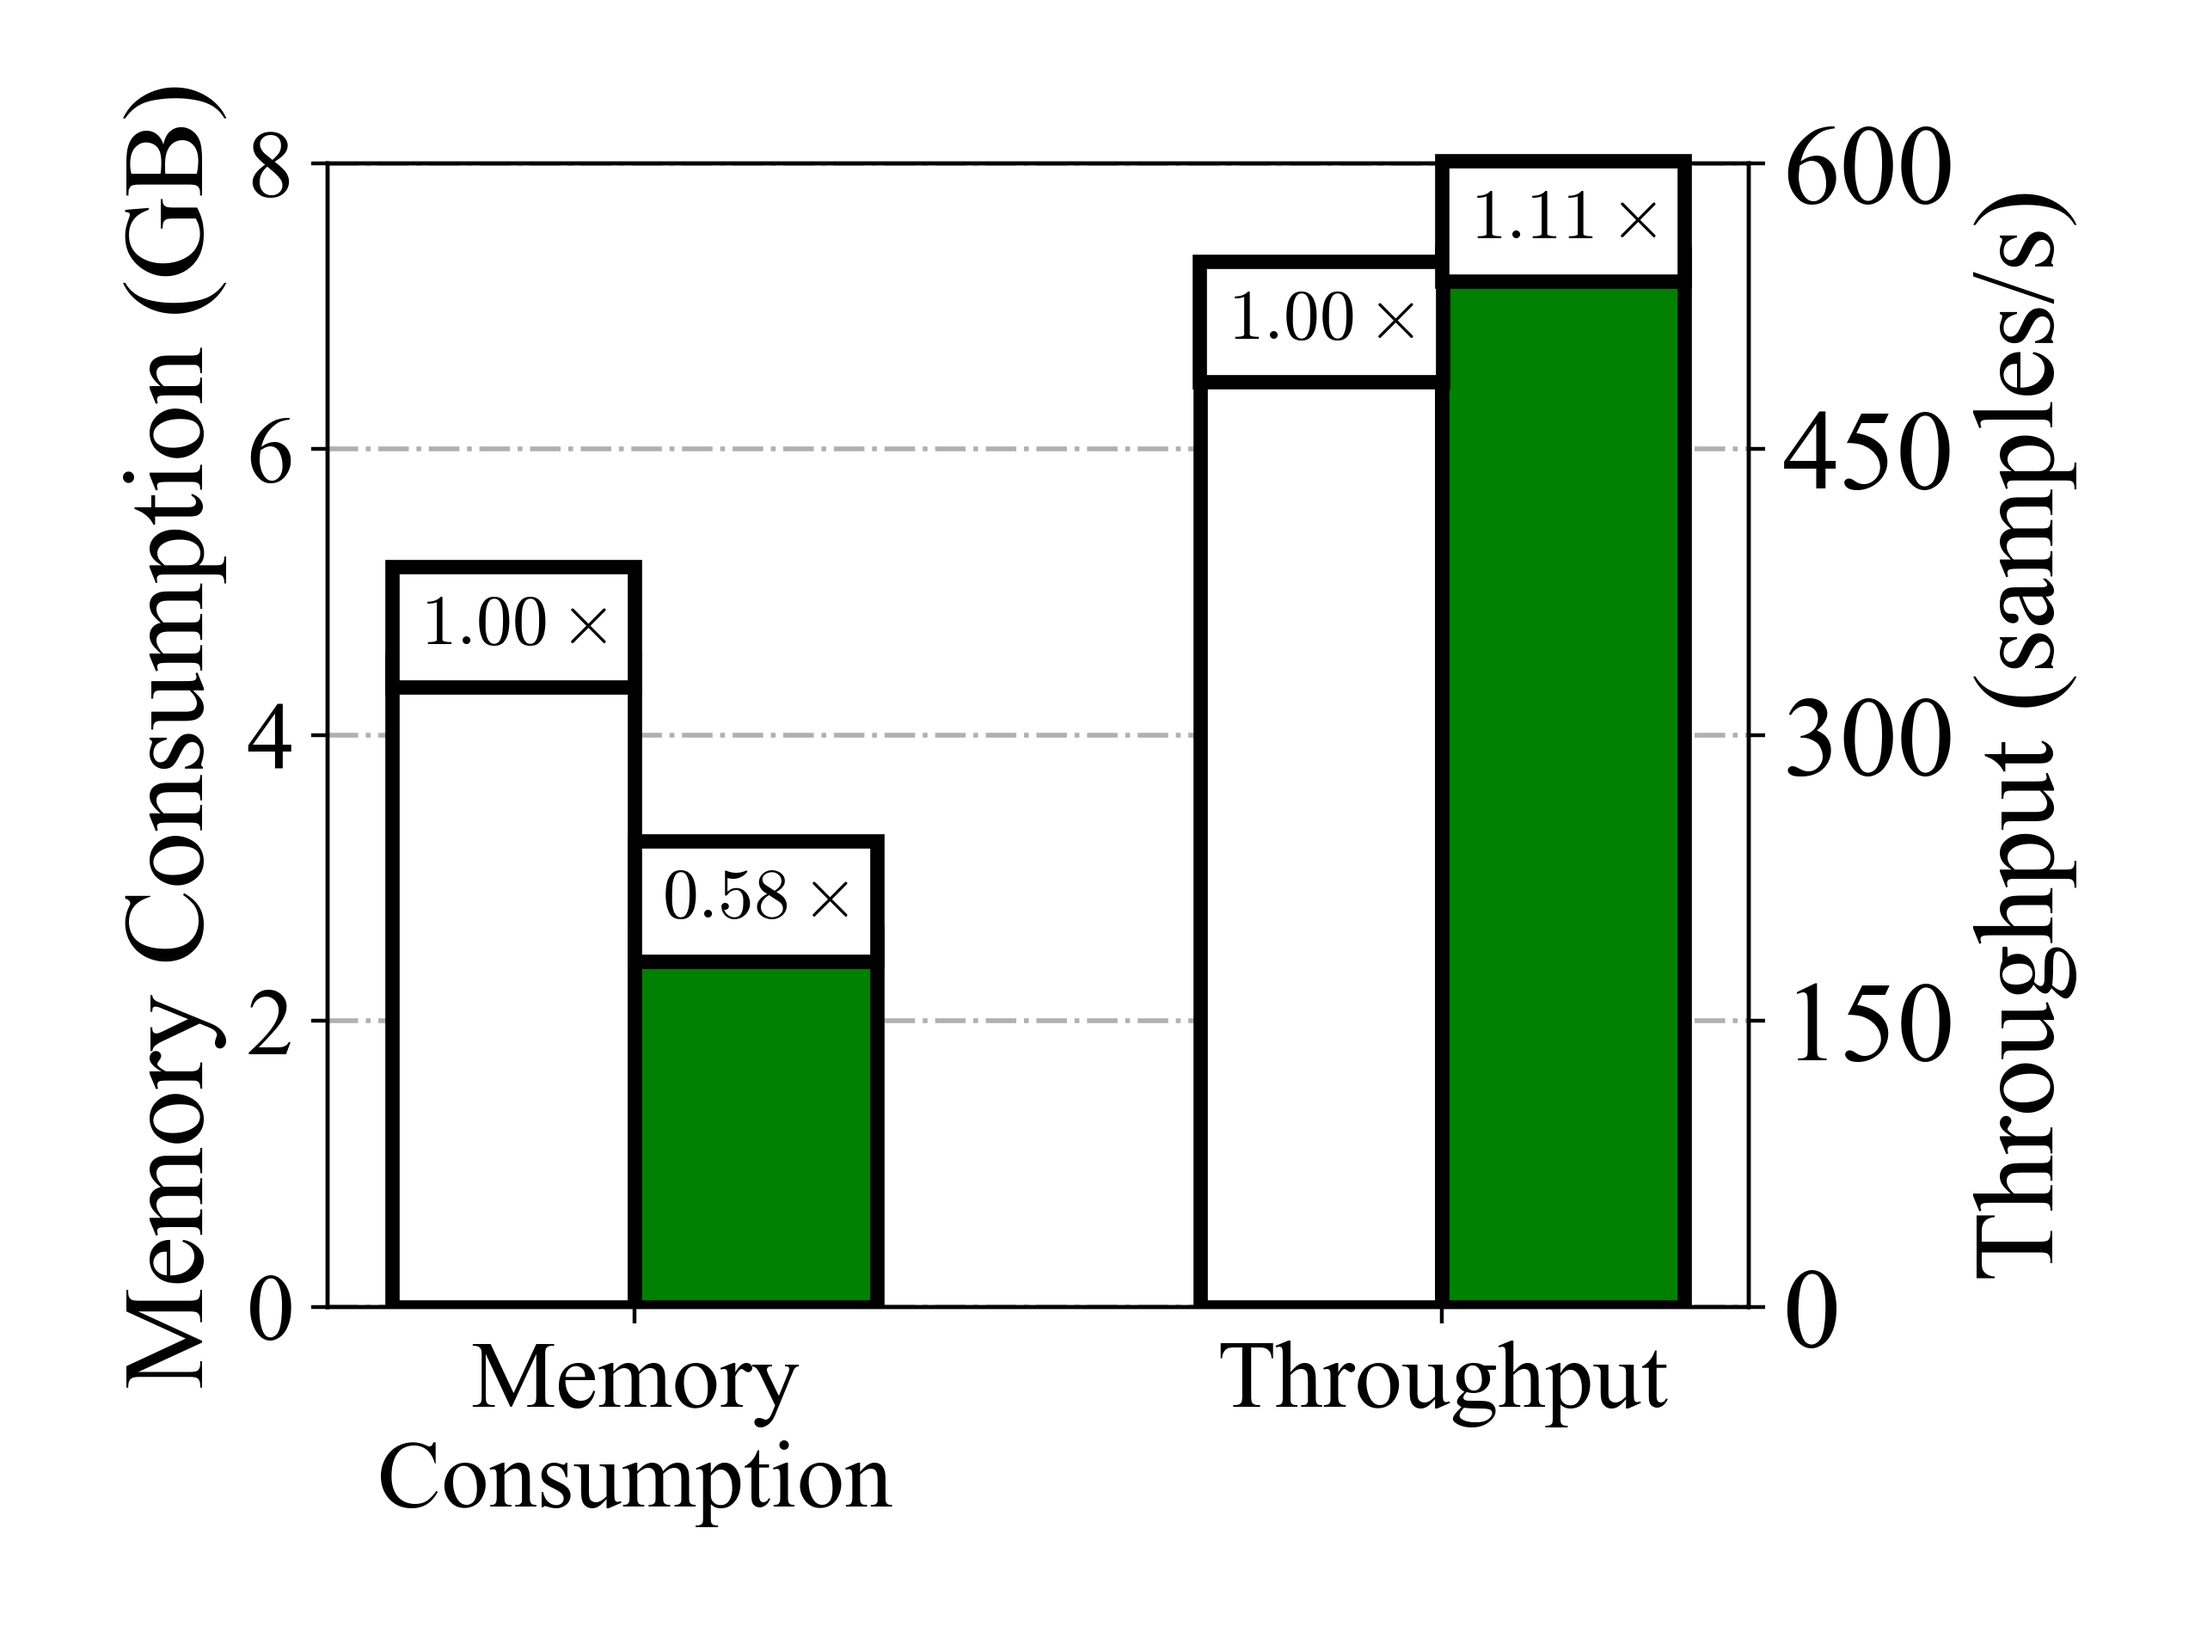
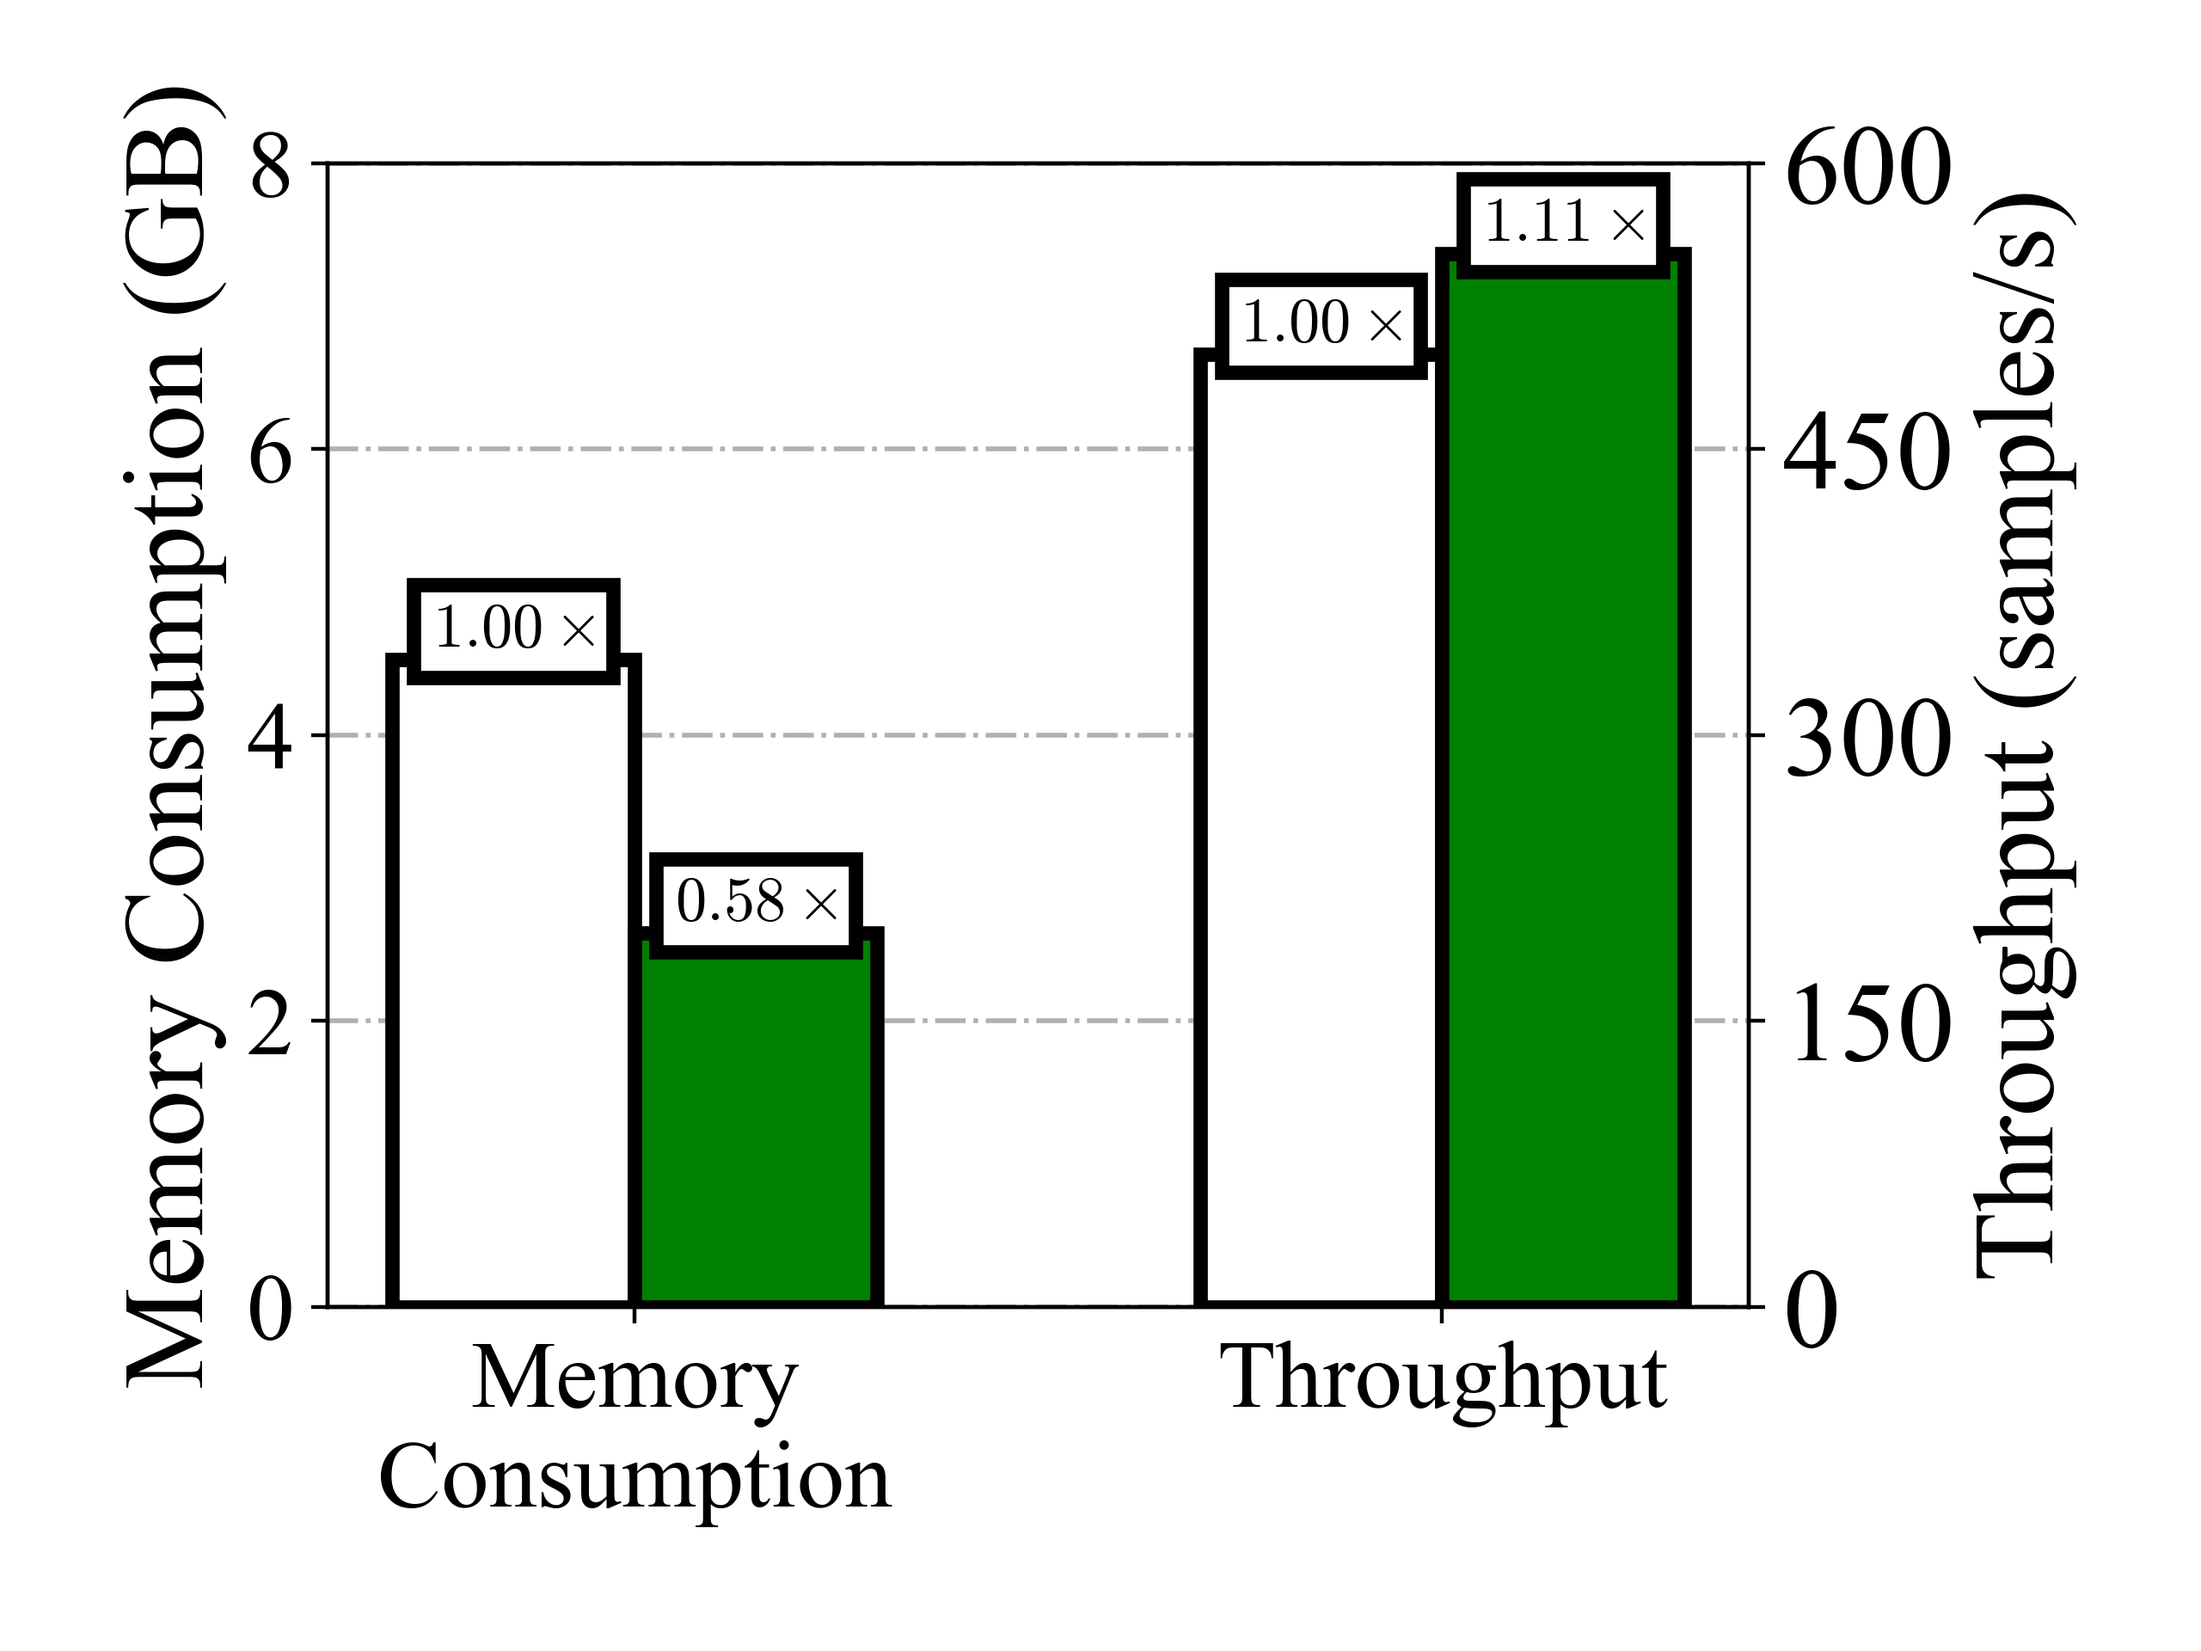
Updated graphs.

Changed region(s): [[0.5312, 0.0938, 0.7812, 0.25], [0.1562, 0.3125, 0.3125, 0.4375], [0.2812, 0.5, 0.4062, 0.5938]]

diff --git a/workspace/results/tensorboard/iwslt15-vi_en-groundhog-preliminary/visualizer.py b/workspace/results/tensorboard/iwslt15-vi_en-groundhog-preliminary/visualizer.py
@@ -24,6 +24,6 @@ plt_rc_setup()
 # plt_default_vs_econmt_preliminary(metric='memory_usage', metric_unit='GB')
 # plt_default_vs_econmt_preliminary(metric='throughput', metric_unit='samples/s')
 
-plt_default_vs_econmt_preliminary_metric(prefix='iwslt15-vi_en-best-', batch_size=80, 
+plt_default_vs_econmt_preliminary_metric(prefix='iwslt15-vi_en-groundhog-', batch_size=80, 
                                          max_memory_usage=8,
                                          max_throughput=600)
